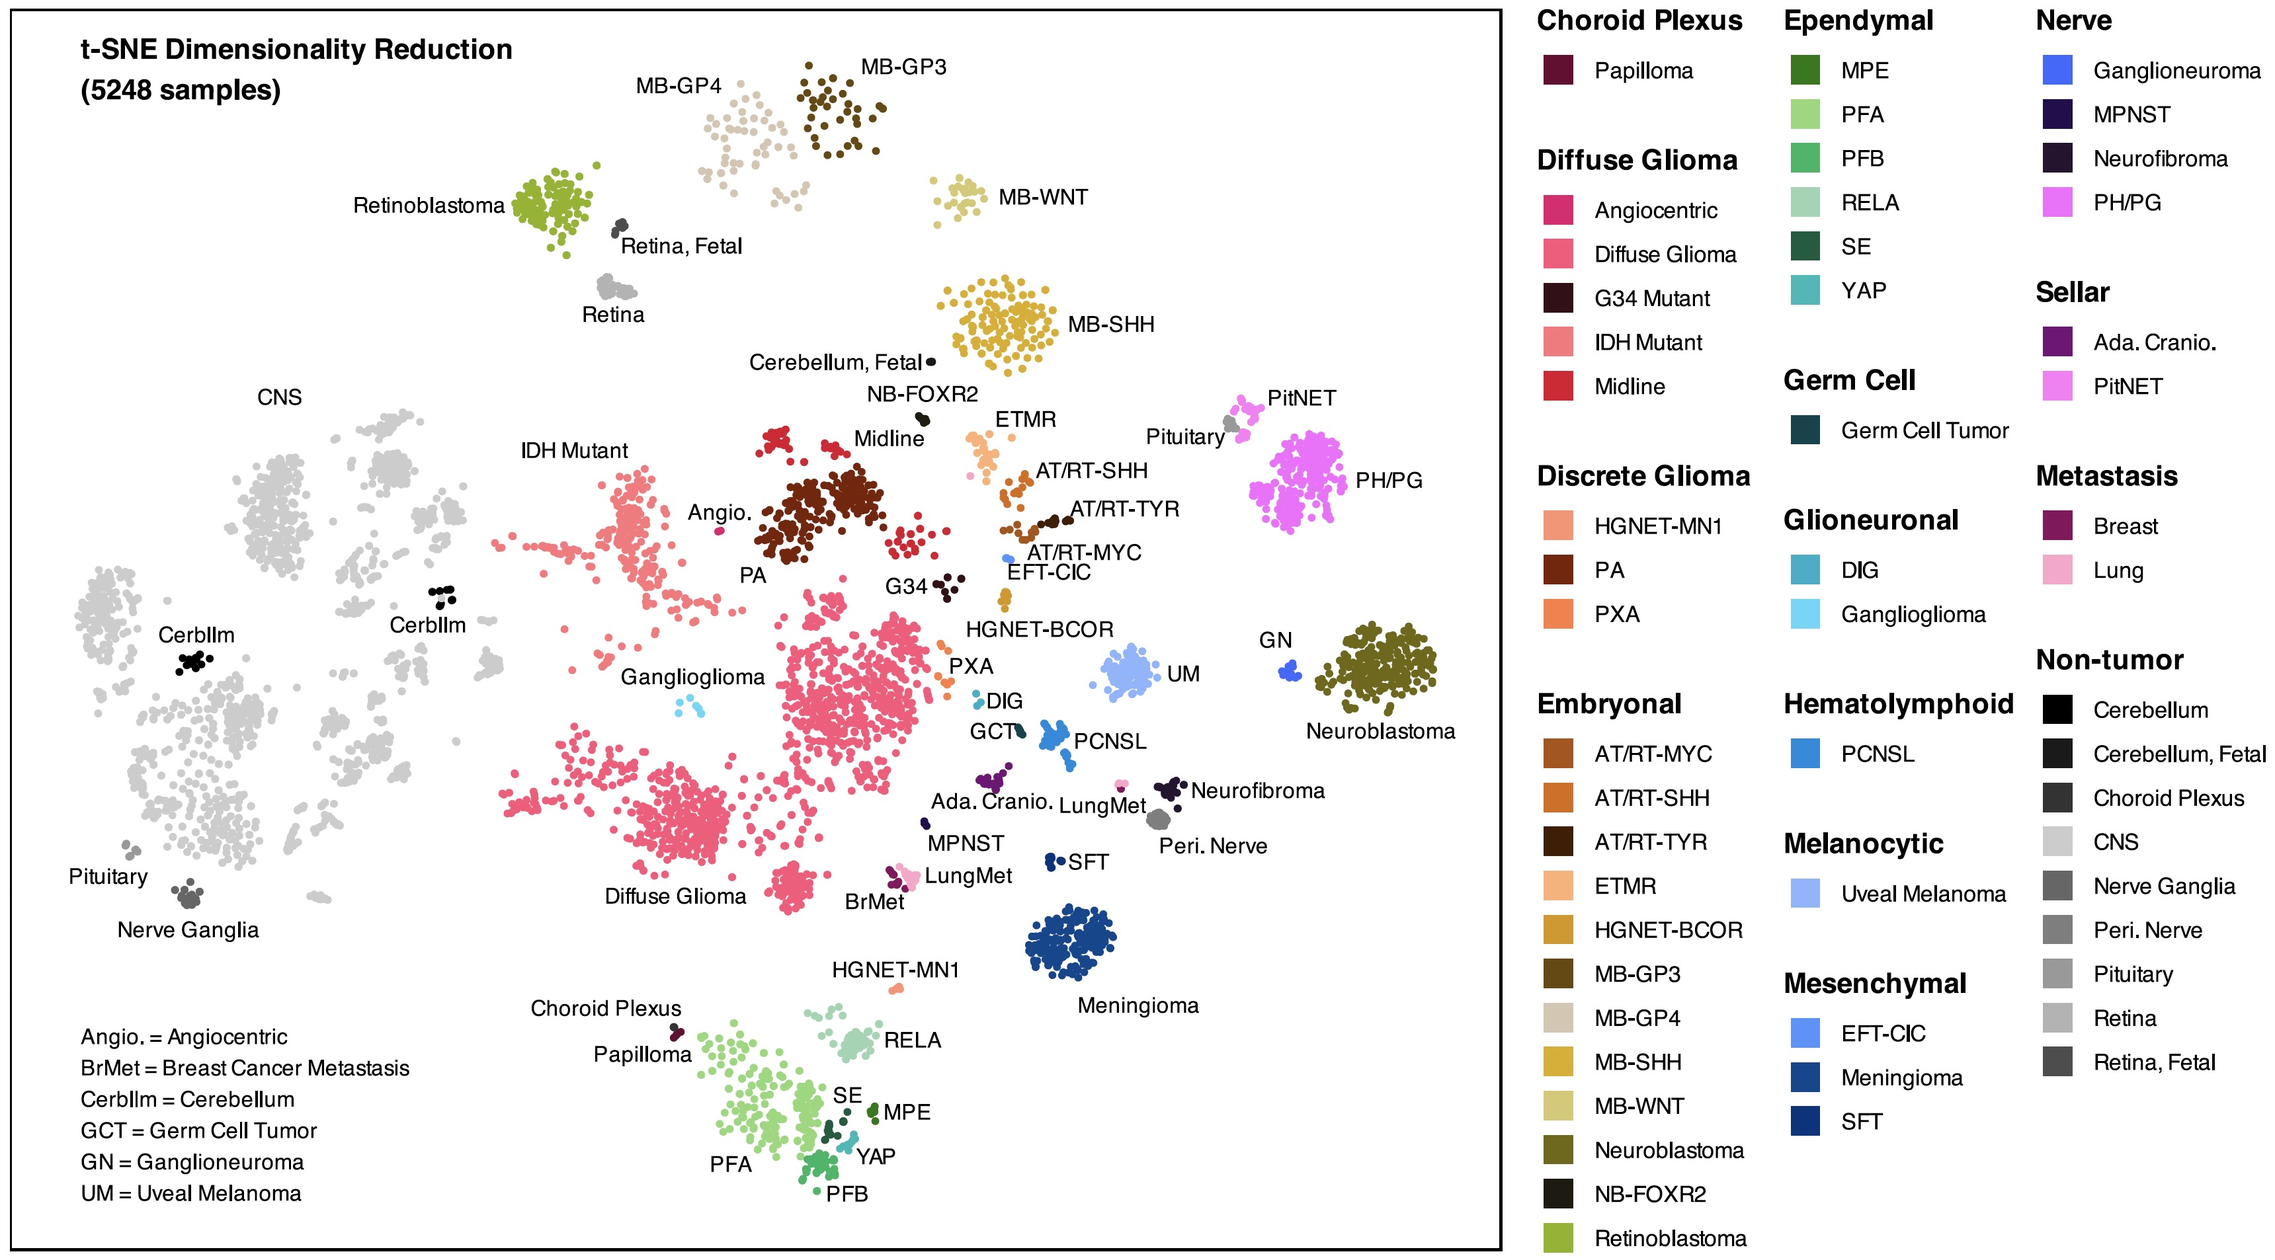
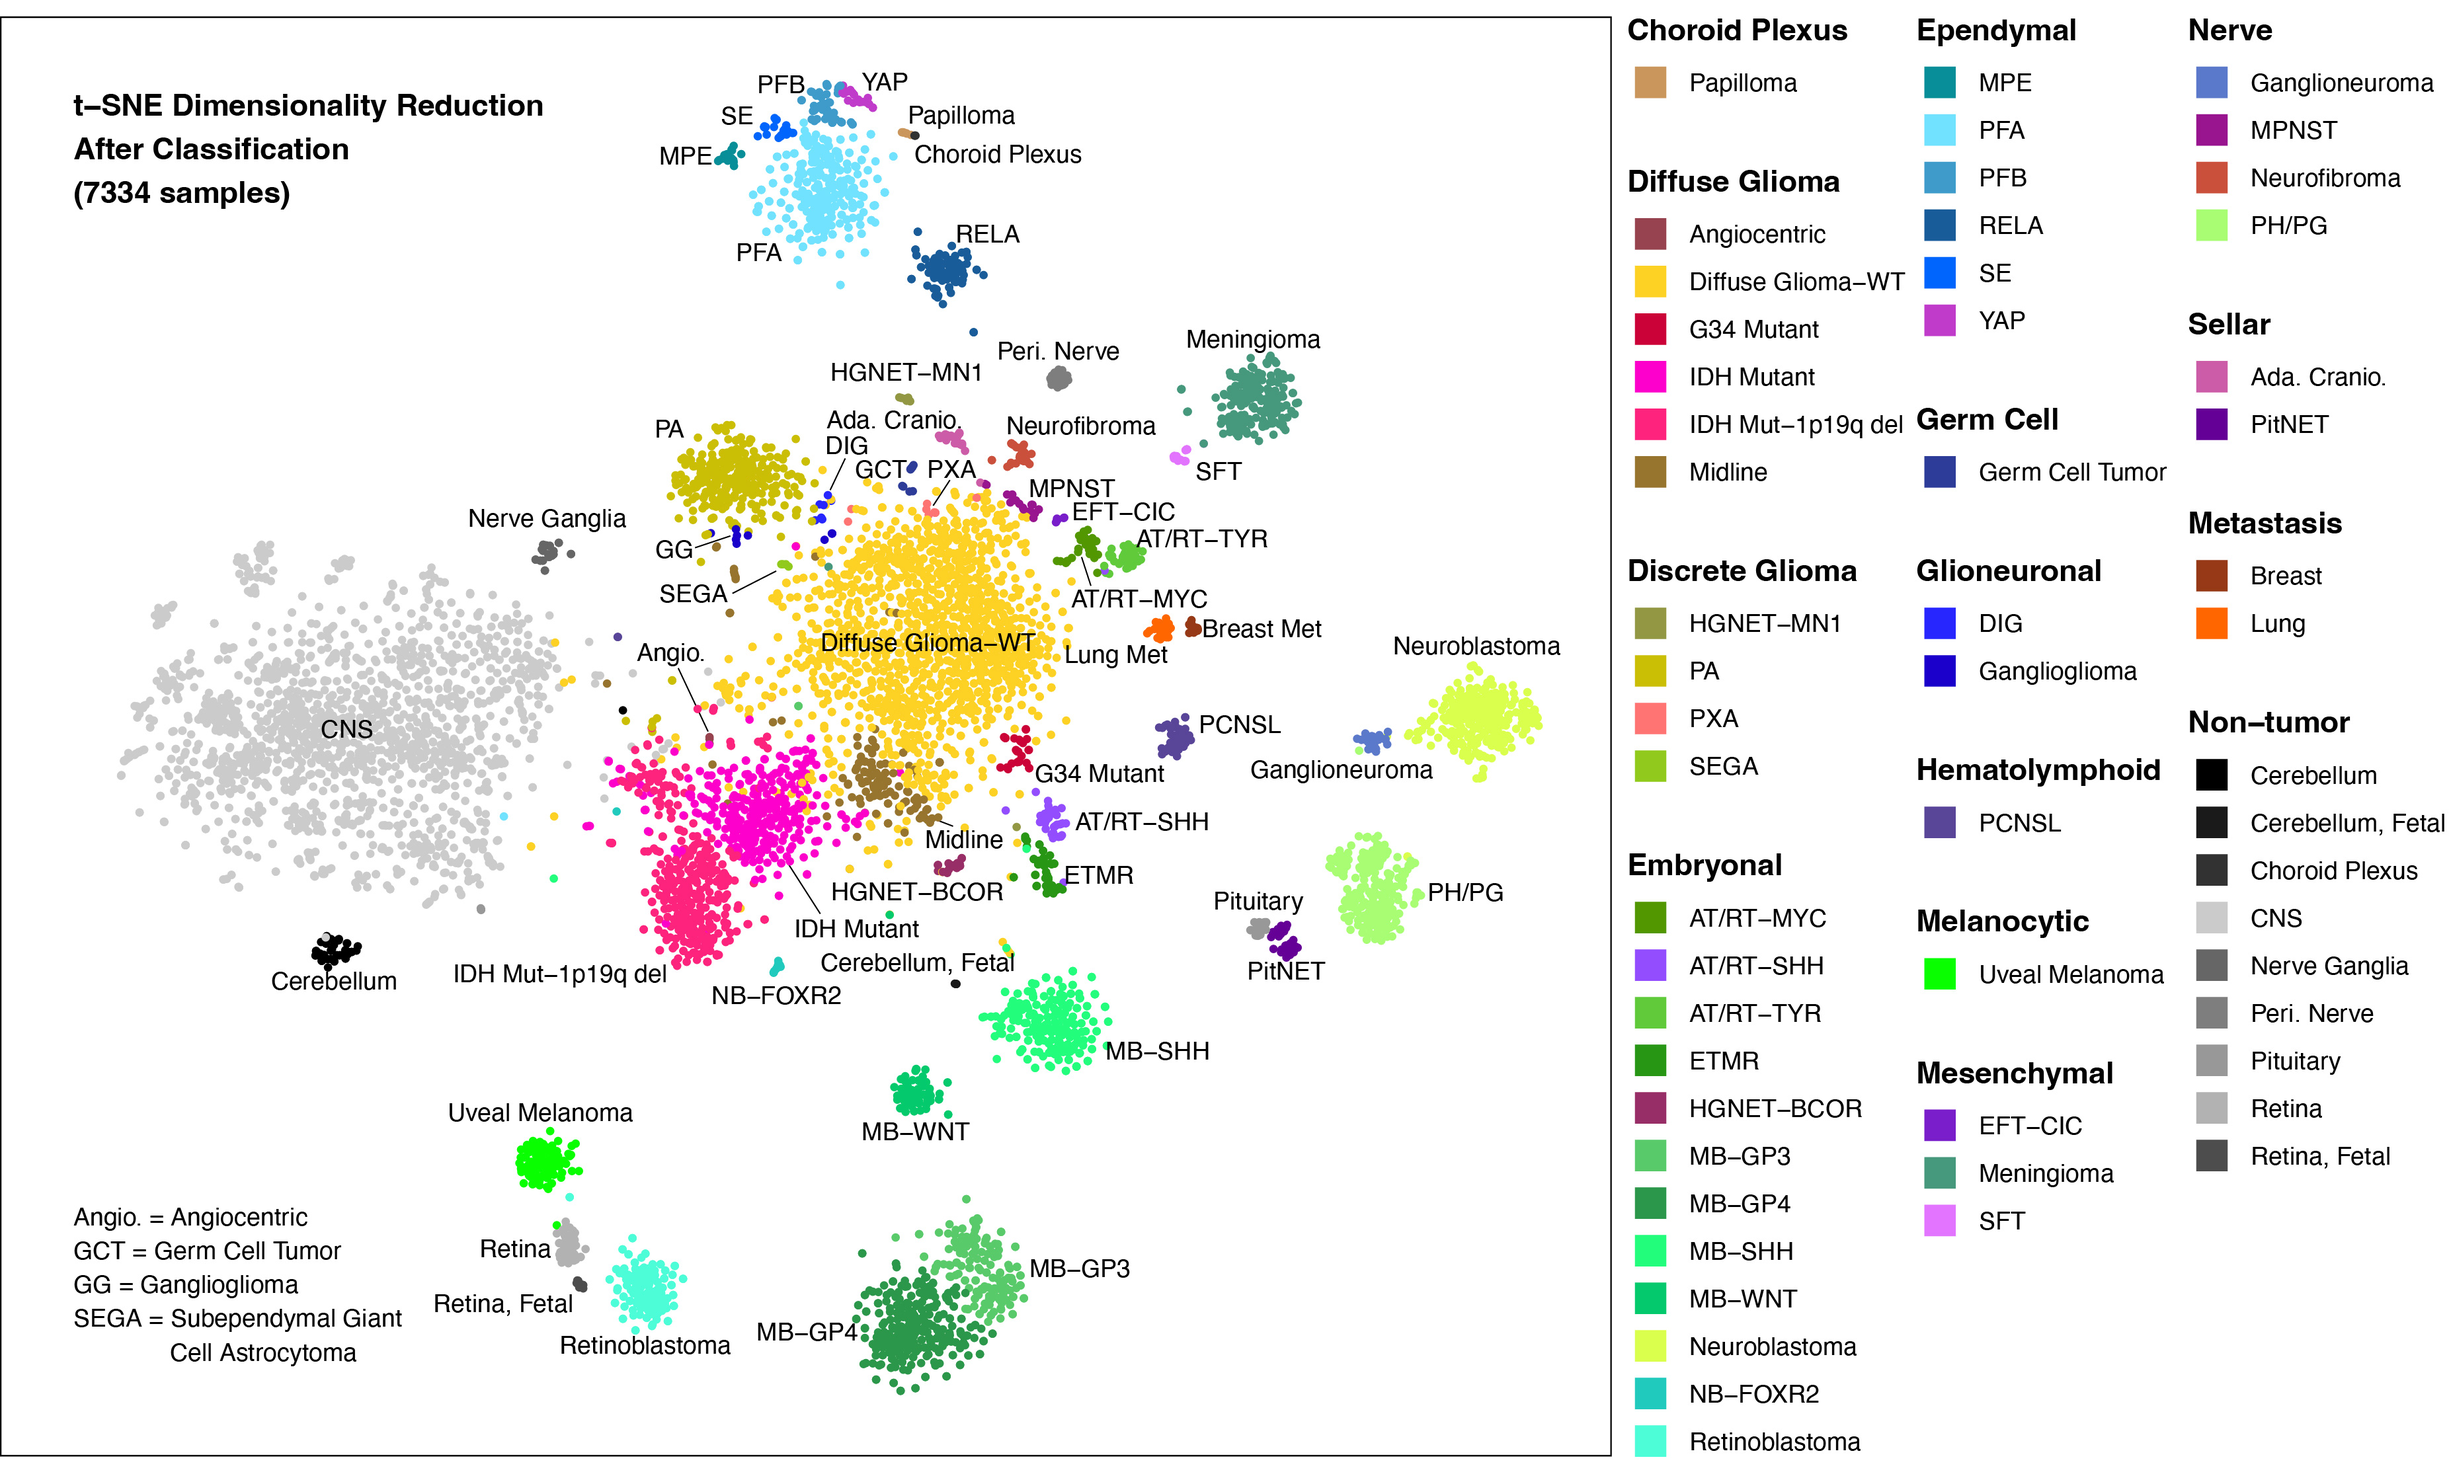
updated front image

diff --git a/README.md b/README.md
@@ -8,12 +8,12 @@ In this study, we present an atlas that combines harmonized gene expression and 
 
 ## Instructions
 ### Gene Expression Data
-The ExpData.rds files (zipped and segmented into 11 files) in the Gene Expression Folder contains the gene expression data for each sample. Once downloaded and unzipped, the file (and its data) can be loaded into R with the following simple command. 
+The ExpData_BC.rds files (zipped and segmented into 11 files) in the Gene Expression Folder contains the gene expression data for each sample. Once downloaded and unzipped, the file (and its data) can be loaded into R with the following simple command. 
 
-ExpData<-read.RDS(“ExpData.rds”) #this will load a data frame.
+ExpData<-read.RDS(“ExpData_BC.rds”) #this will load a data frame.
 
 ### Clinical Data
-The clinical data associated with the samples are available in Atlas_Data.csv.
+The clinical data associated with the samples are available in Supplementary Table 1.csv. "_bc" after a variable designates "batch corrected"
 
 VARIABLES:
 Filename, Dataset ID, Sample ID, Primary Institution, Country, Tissue preparation
@@ -22,7 +22,7 @@ TUMOR DATA:
 Original histology, Subgroup Information, Original location, Compartment, Location, Grade, Final diagnosis, and Genetic Information: 1p/19q-codel, IDH1/2 mutation, H3 mutation, TERT (promoter) mutation, EGFR amplification, MGMT promoter methylation, BRAF mutation, MCYN amplification
 
 ANALYSIS RESULTS:
-tsne1, tsne2, Diagnosis predicted by the Random Forest, LightGBM, Euclidean, and t-SNE classifiers	
+tsne1_bc, tsne2_bc, Diagnosis predicted by the Random Forest, LightGBM, Euclidean, and t-SNE classifiers	
 
 PATIENT DATA:
 Stage Neuroblastoma, Stage Medulloblastoma, Age (year), Age (grouped), Sex, Recurrent?, Vital status, Overall survival
